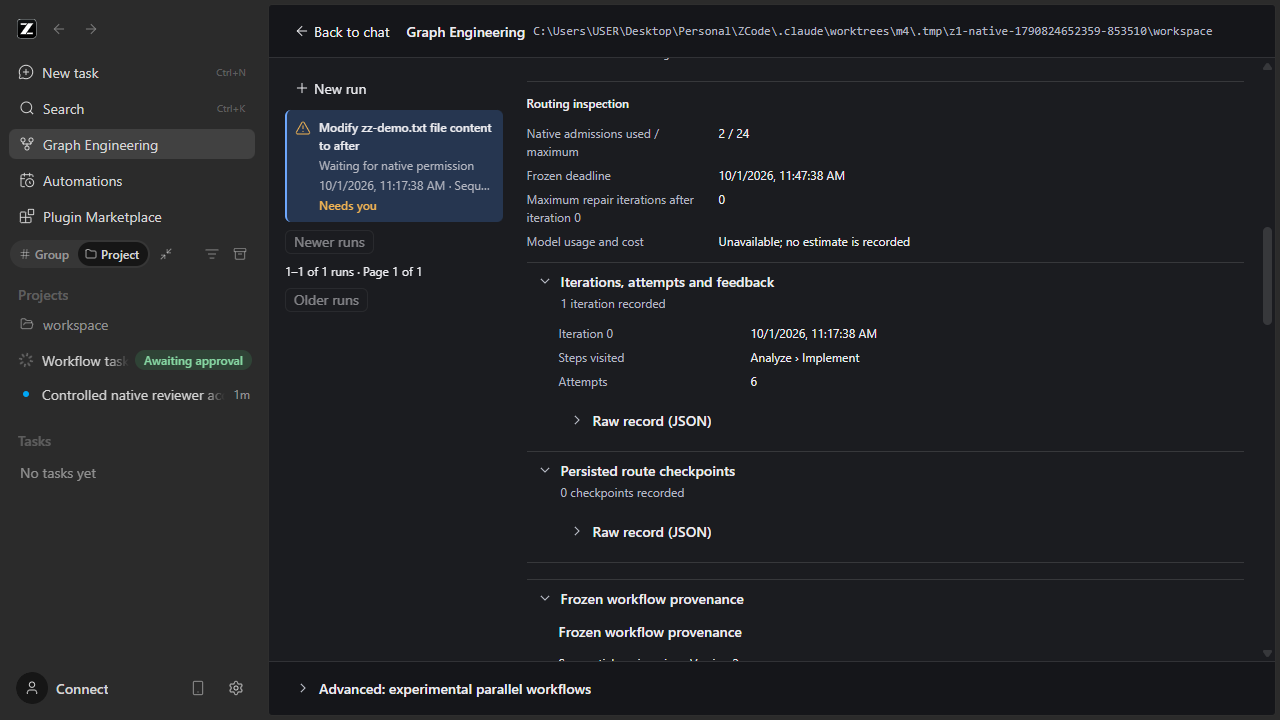
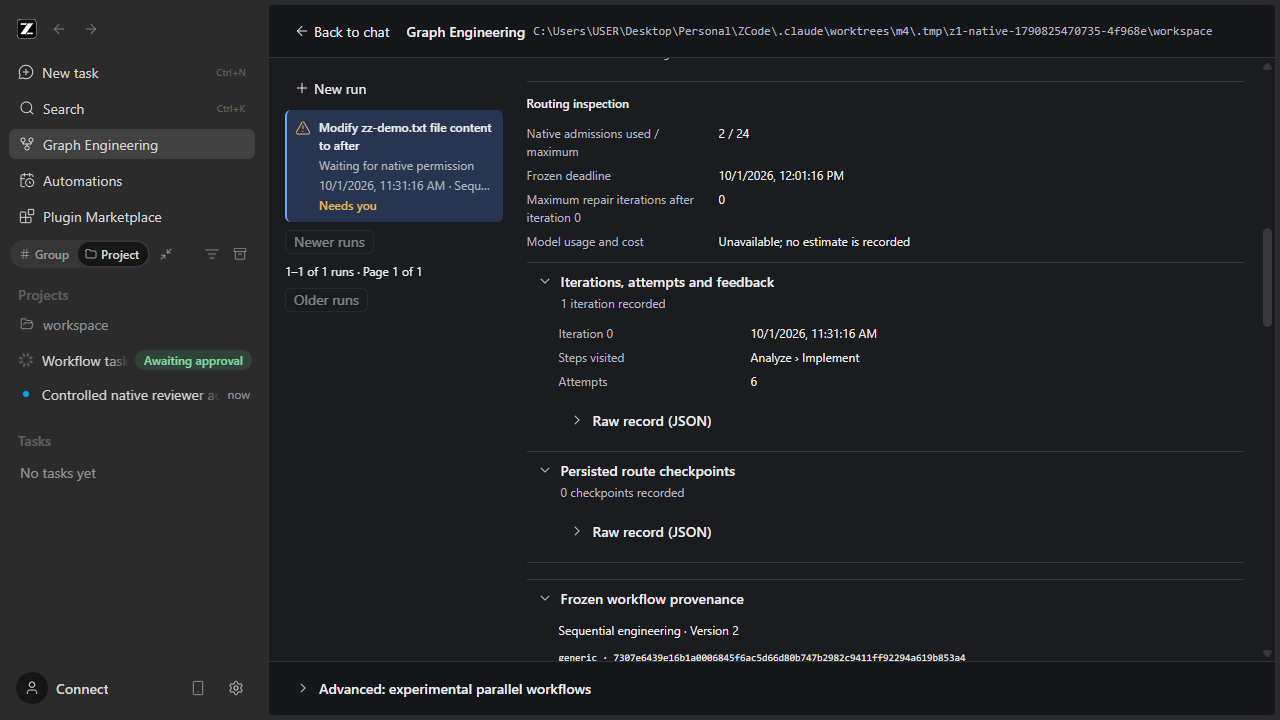
fix(graph): UX-M4 micro-polish: embedded frozen provenance drops its duplicate heading

Changed region(s): [[0.4375, 0.8556, 0.75, 0.9167], [0.8125, 0.0306, 0.9062, 0.0611], [0.625, 0.2139, 0.6562, 0.275]]

diff --git a/packages/ui/src/graph-engineering/GraphWorkflowProvenance.tsx b/packages/ui/src/graph-engineering/GraphWorkflowProvenance.tsx
@@ -7,10 +7,13 @@ import { graphIsoTimestamp } from "./graphTimestamp.js";
 export function GraphWorkflowProvenance({
   provenance,
   unknownsFirst = false,
+  embedded = false,
 }: {
   provenance: GraphRunProvenance;
   /** Review puts the statements the user must accept before the long technical details. */
   unknownsFirst?: boolean;
+  /** UX-M4: rendered inside a disclosure whose header already owns the section title. */
+  embedded?: boolean;
 }) {
   const { intl } = useZCodeIntl(),
     t = (key: string) => intl.formatMessage({ id: `graph.z6.${key}` });
@@ -28,7 +31,7 @@ export function GraphWorkflowProvenance({
   ) : null;
   return (
     <section className="space-y-3 break-words text-ui-sm" data-testid="graph-workflow-provenance">
-      <h3 className="font-medium text-ui-base">{t("provenance")}</h3>
+      {embedded ? null : <h3 className="font-medium text-ui-base">{t("provenance")}</h3>}
       <p>
         {provenance.template.name} · {t("version")} {provenance.template.version}
       </p>

diff --git a/packages/ui/src/graph-engineering/GraphRunPanel.tsx b/packages/ui/src/graph-engineering/GraphRunPanel.tsx
@@ -50,7 +50,7 @@ export function GraphRunPanel({
             testId="graph-frozen-provenance"
             title={intl.formatMessage({ id: "graph.z6.provenance" })}
           >
-            <GraphWorkflowProvenance provenance={selectedRun.provenance} />
+            <GraphWorkflowProvenance provenance={selectedRun.provenance} embedded />
           </GraphDisclosure>
         </GraphDisclosureStack>
       ) : null}

diff --git a/docs/graph-engineering/ux-audit/UX_M4_REPORT.md b/docs/graph-engineering/ux-audit/UX_M4_REPORT.md
@@ -16,7 +16,9 @@ Spec addendum: [UX_M4_SPEC.md](UX_M4_SPEC.md) section 7. Presentation only: no r
 - Run inspection: *Iterations, attempts and feedback*, *Persisted route checkpoints*, *Frozen workflow provenance*, *Technical identities and captured facts*, *Instruction template*, *Binding evidence*, *Terminal proof*.
 - Workflows setup: *Workspace defaults for the next run*, *Bounded repair policy* / *Routing and repair limits*, the request disclosure.
 - Same top-level pattern elsewhere in Graph: the context *Advanced* field, the Checks .NET profile and raw-checks disclosures, the experimental-workflows footer.
-- Not converted on purpose: the consent-critical preflight and approval-evidence disclosures, the sections inside `GraphWorkflowProvenance`, the guided-task and parallel-workflow disclosures, and the legacy run details. The nested sections of the Frozen provenance still carry their own heading, so "Frozen workflow provenance" appears twice when it is open.
+- Not converted on purpose: the consent-critical preflight and approval-evidence disclosures, the sections inside `GraphWorkflowProvenance`, the guided-task and parallel-workflow disclosures, and the legacy run details. The nested sections inside Frozen provenance are unchanged.
+
+**Frozen provenance title (micro-polish).** The disclosure header owns "Frozen workflow provenance"; `GraphWorkflowProvenance` gained an explicit `embedded` prop that omits only its own heading, and the run panel passes it. Standalone use (the preflight review) is unchanged and keeps its heading; no provenance content, identity, timestamp, digest or raw data was removed. Verified by a new M4 browser scenario (title appears once, no inner `h3`, template name, version and digest still shown; M4 browser 22/22) and by assertions in the native M4 `states` S6 on the real run's provenance (pass on the rebuilt Desktop; typecheck, lint with 0 errors and unchanged 75 warnings, architecture OK). The historical matrix was not rerun. The four `disclosures-*` captures were retaken on the rebuilt Desktop after this change.
 
 **"New request".** It owns the request text of the current design and an *Apply request* action that edits the design draft; it starts nothing and does not touch runs. That is configuration, so it stays a disclosure with clearer UI-owned wording, **"Request for this design"** (Chinese 此设计的请求), and a one-line summary showing the current request. The stored message id and behaviour are unchanged.
 
